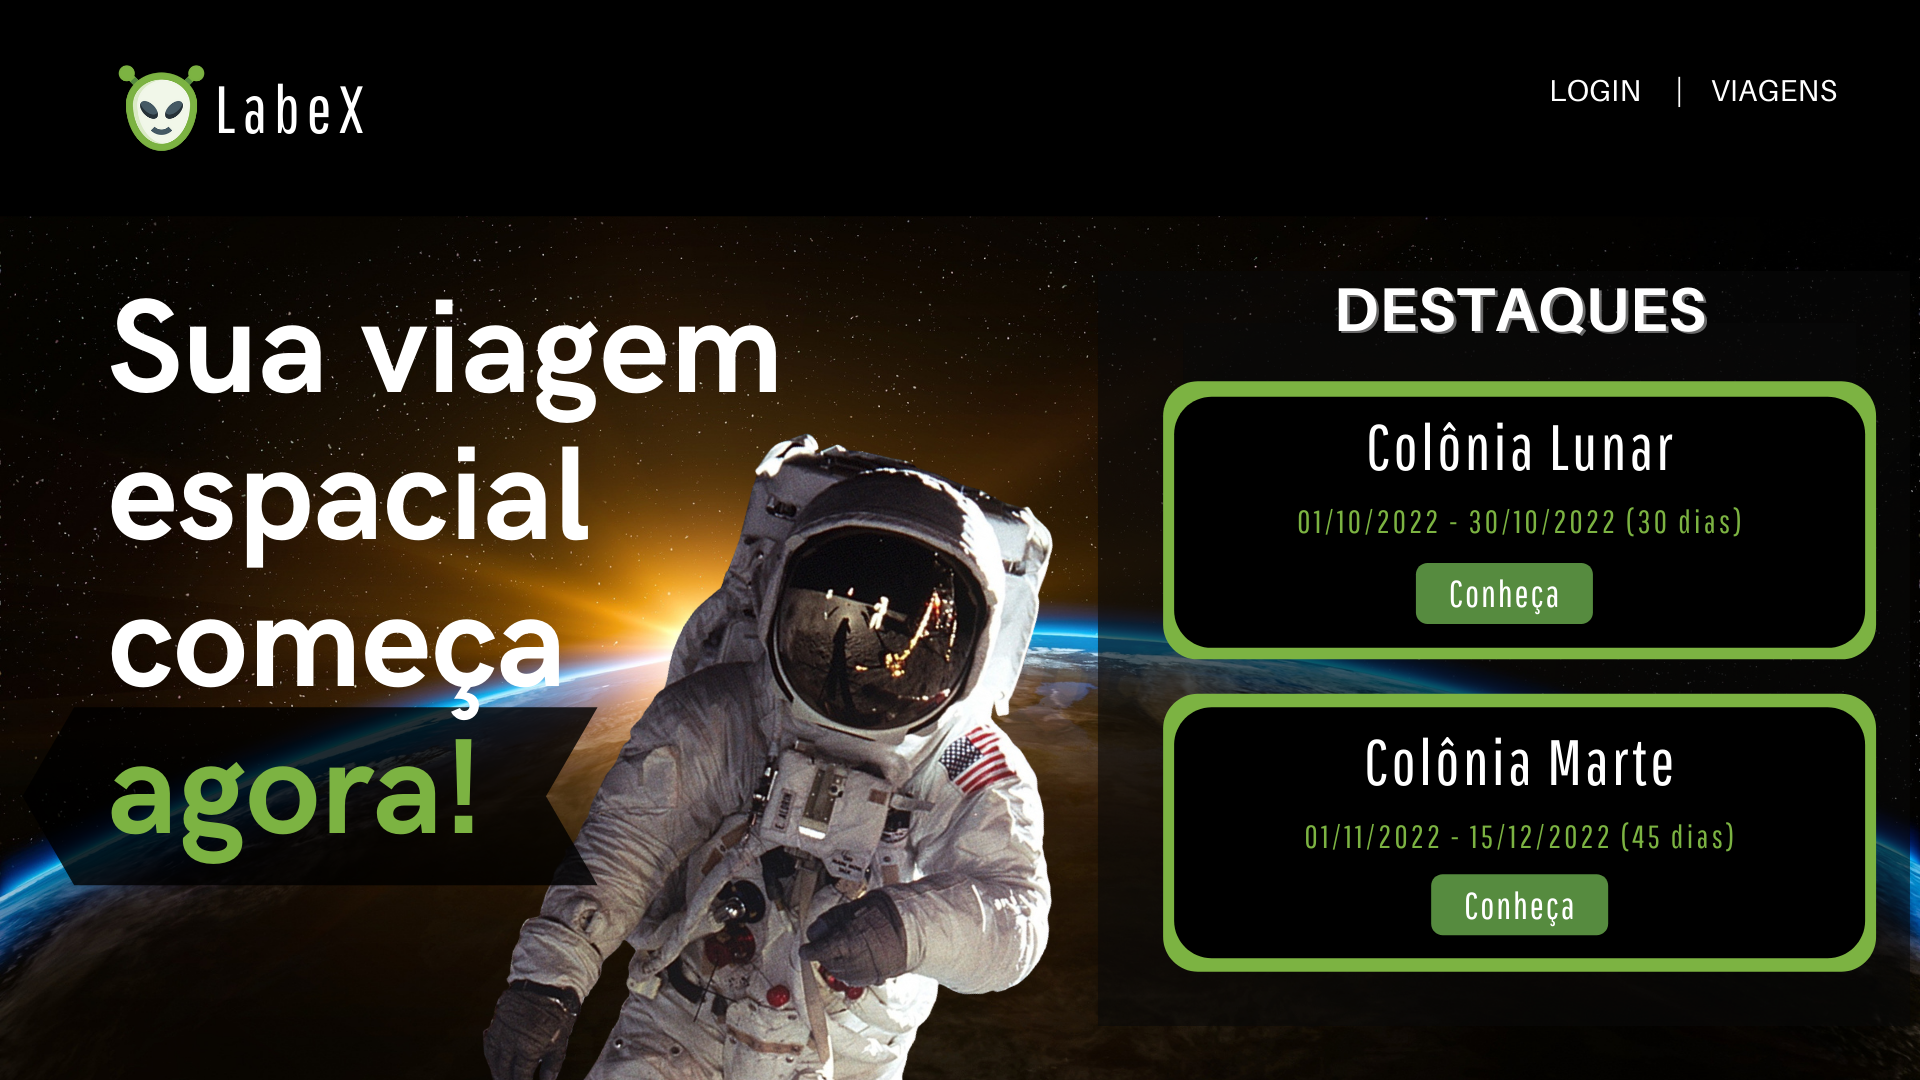
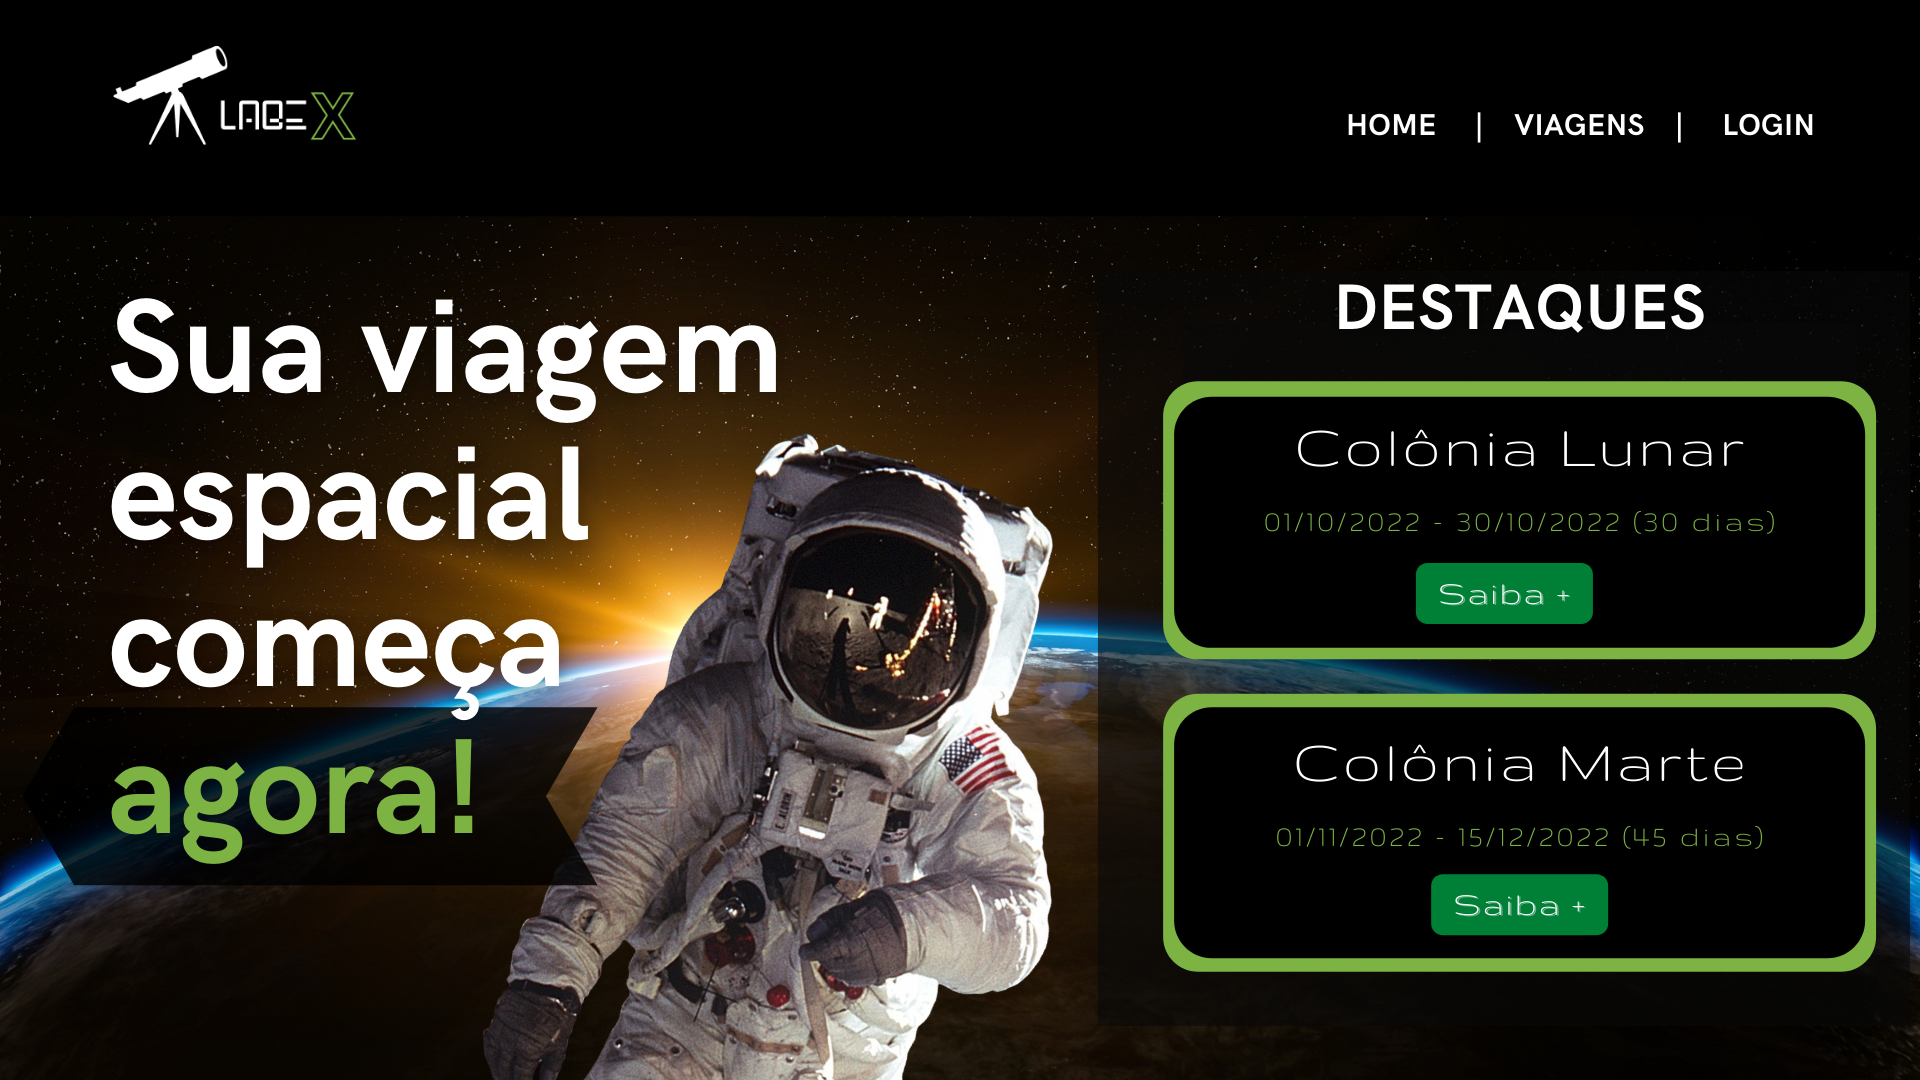
Atualização Projeto LabeX, criado routes e atualizado layout wireframes.

diff --git a/modulo4/projeto-labex/labex/src/routes/Router.jsx b/modulo4/projeto-labex/labex/src/routes/Router.jsx
@@ -1,0 +1,30 @@
+import React from "react";
+import {BrowserRouter, Routes, Route} from "react-router-dom"
+import HomePage from "../pages/HomePage/HomePage"
+import ListTripsPage from "../pages/ListTripsPage/ListTripsPage";
+import TripDetailsPage from "../pages/TripDetailsPage/TripDetailsPage";
+import LoginPage from "../pages/LoginPage/LoginPage";
+import AdminHomePage from "../pages/AdminHomePage/AdminHomePage";
+import CreatetripPage from "../pages/CreateTripPage/CreateTripPage";
+import ApplicationFormPage from "../pages/ApplicationFormPage/ApplicationFormPage";
+
+const Router = () => {
+
+    return (
+        <div>
+            <BrowserRouter>
+                <Routes>
+                <Route index element={<HomePage/>}/>
+                <Route exact path="/trips/list" element={<ListTripsPage/>}/>
+                <Route exact path="/pages/ListTripsPage" element={<TripDetailsPage/>}/>
+                <Route exact path="/login" element={<LoginPage/>}/>
+                <Route exact path="/admin/trips/list" element={<AdminHomePage/>}/>
+                <Route exact path="/admin/trips/create" element={<CreatetripPage/>}/>
+                <Route exact path="/admin/trips/:id" element={<ApplicationFormPage/>}/>
+                </Routes>
+            </BrowserRouter>
+        </div>
+    )
+}
+
+export default Router

diff --git a/modulo4/projeto-labex/labex/src/App.js b/modulo4/projeto-labex/labex/src/App.js
@@ -1,9 +1,11 @@
-import './App.css';
+import React from "react";
+import Router from "./routes/Router";
+
 
 function App() {
   return (
     <div>
-      <h1>Hello Universe!</h1>
+      <Router/>
     </div>
   );
 }

diff --git a/modulo4/projeto-labex/labex/src/pages/ApplicationFormPage/ApplicationFormPage.jsx b/modulo4/projeto-labex/labex/src/pages/ApplicationFormPage/ApplicationFormPage.jsx
@@ -1,0 +1,12 @@
+import React from "react";
+
+
+function ApplicationFormPage() {
+    return (
+        <div>
+            ApplicationFormPage
+        </div>
+    )
+}
+
+export default ApplicationFormPage
